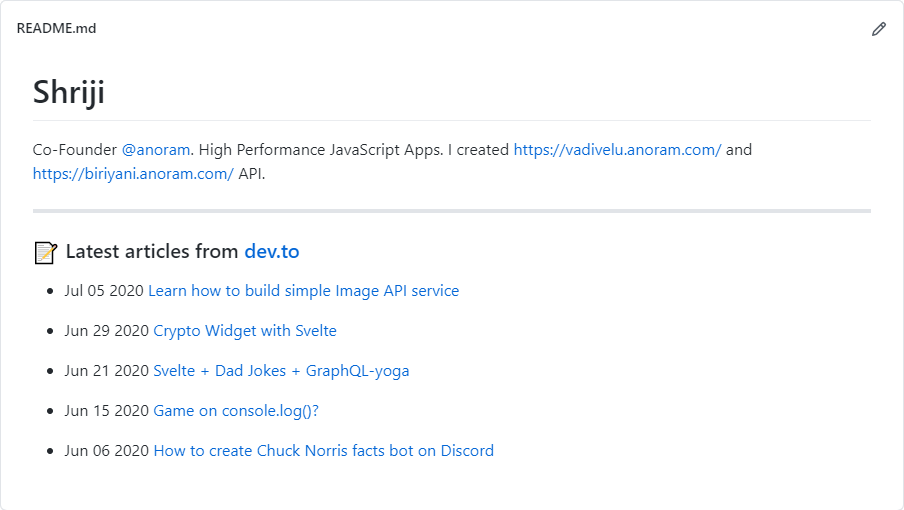
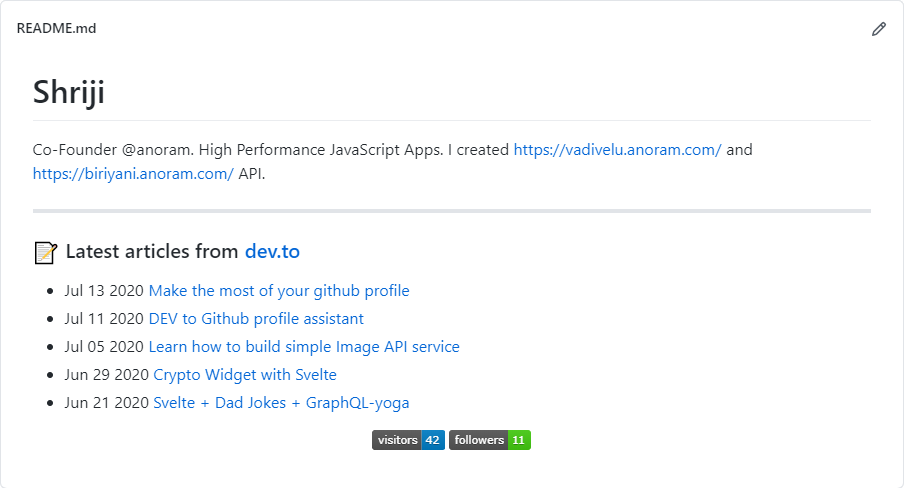
updated preview

diff --git a/README.md b/README.md
@@ -7,5 +7,11 @@ This project is made using svelte visit https://github.anoram.com/.
 Helps you with listing your dev.to articles to github. Fetches your latest 5 articles, name and bio using [DEV API](https://docs.dev.to/api)
 
 
+*Update 1:*
+* Fixed a bug not able to generate MD.
+* Code doesn't break if inputs are bad.
+* Adds dynamic profile badge and followers badge.
+
+
 # My profile preview
 <img src="https://github.anoram.com/preview.png">
